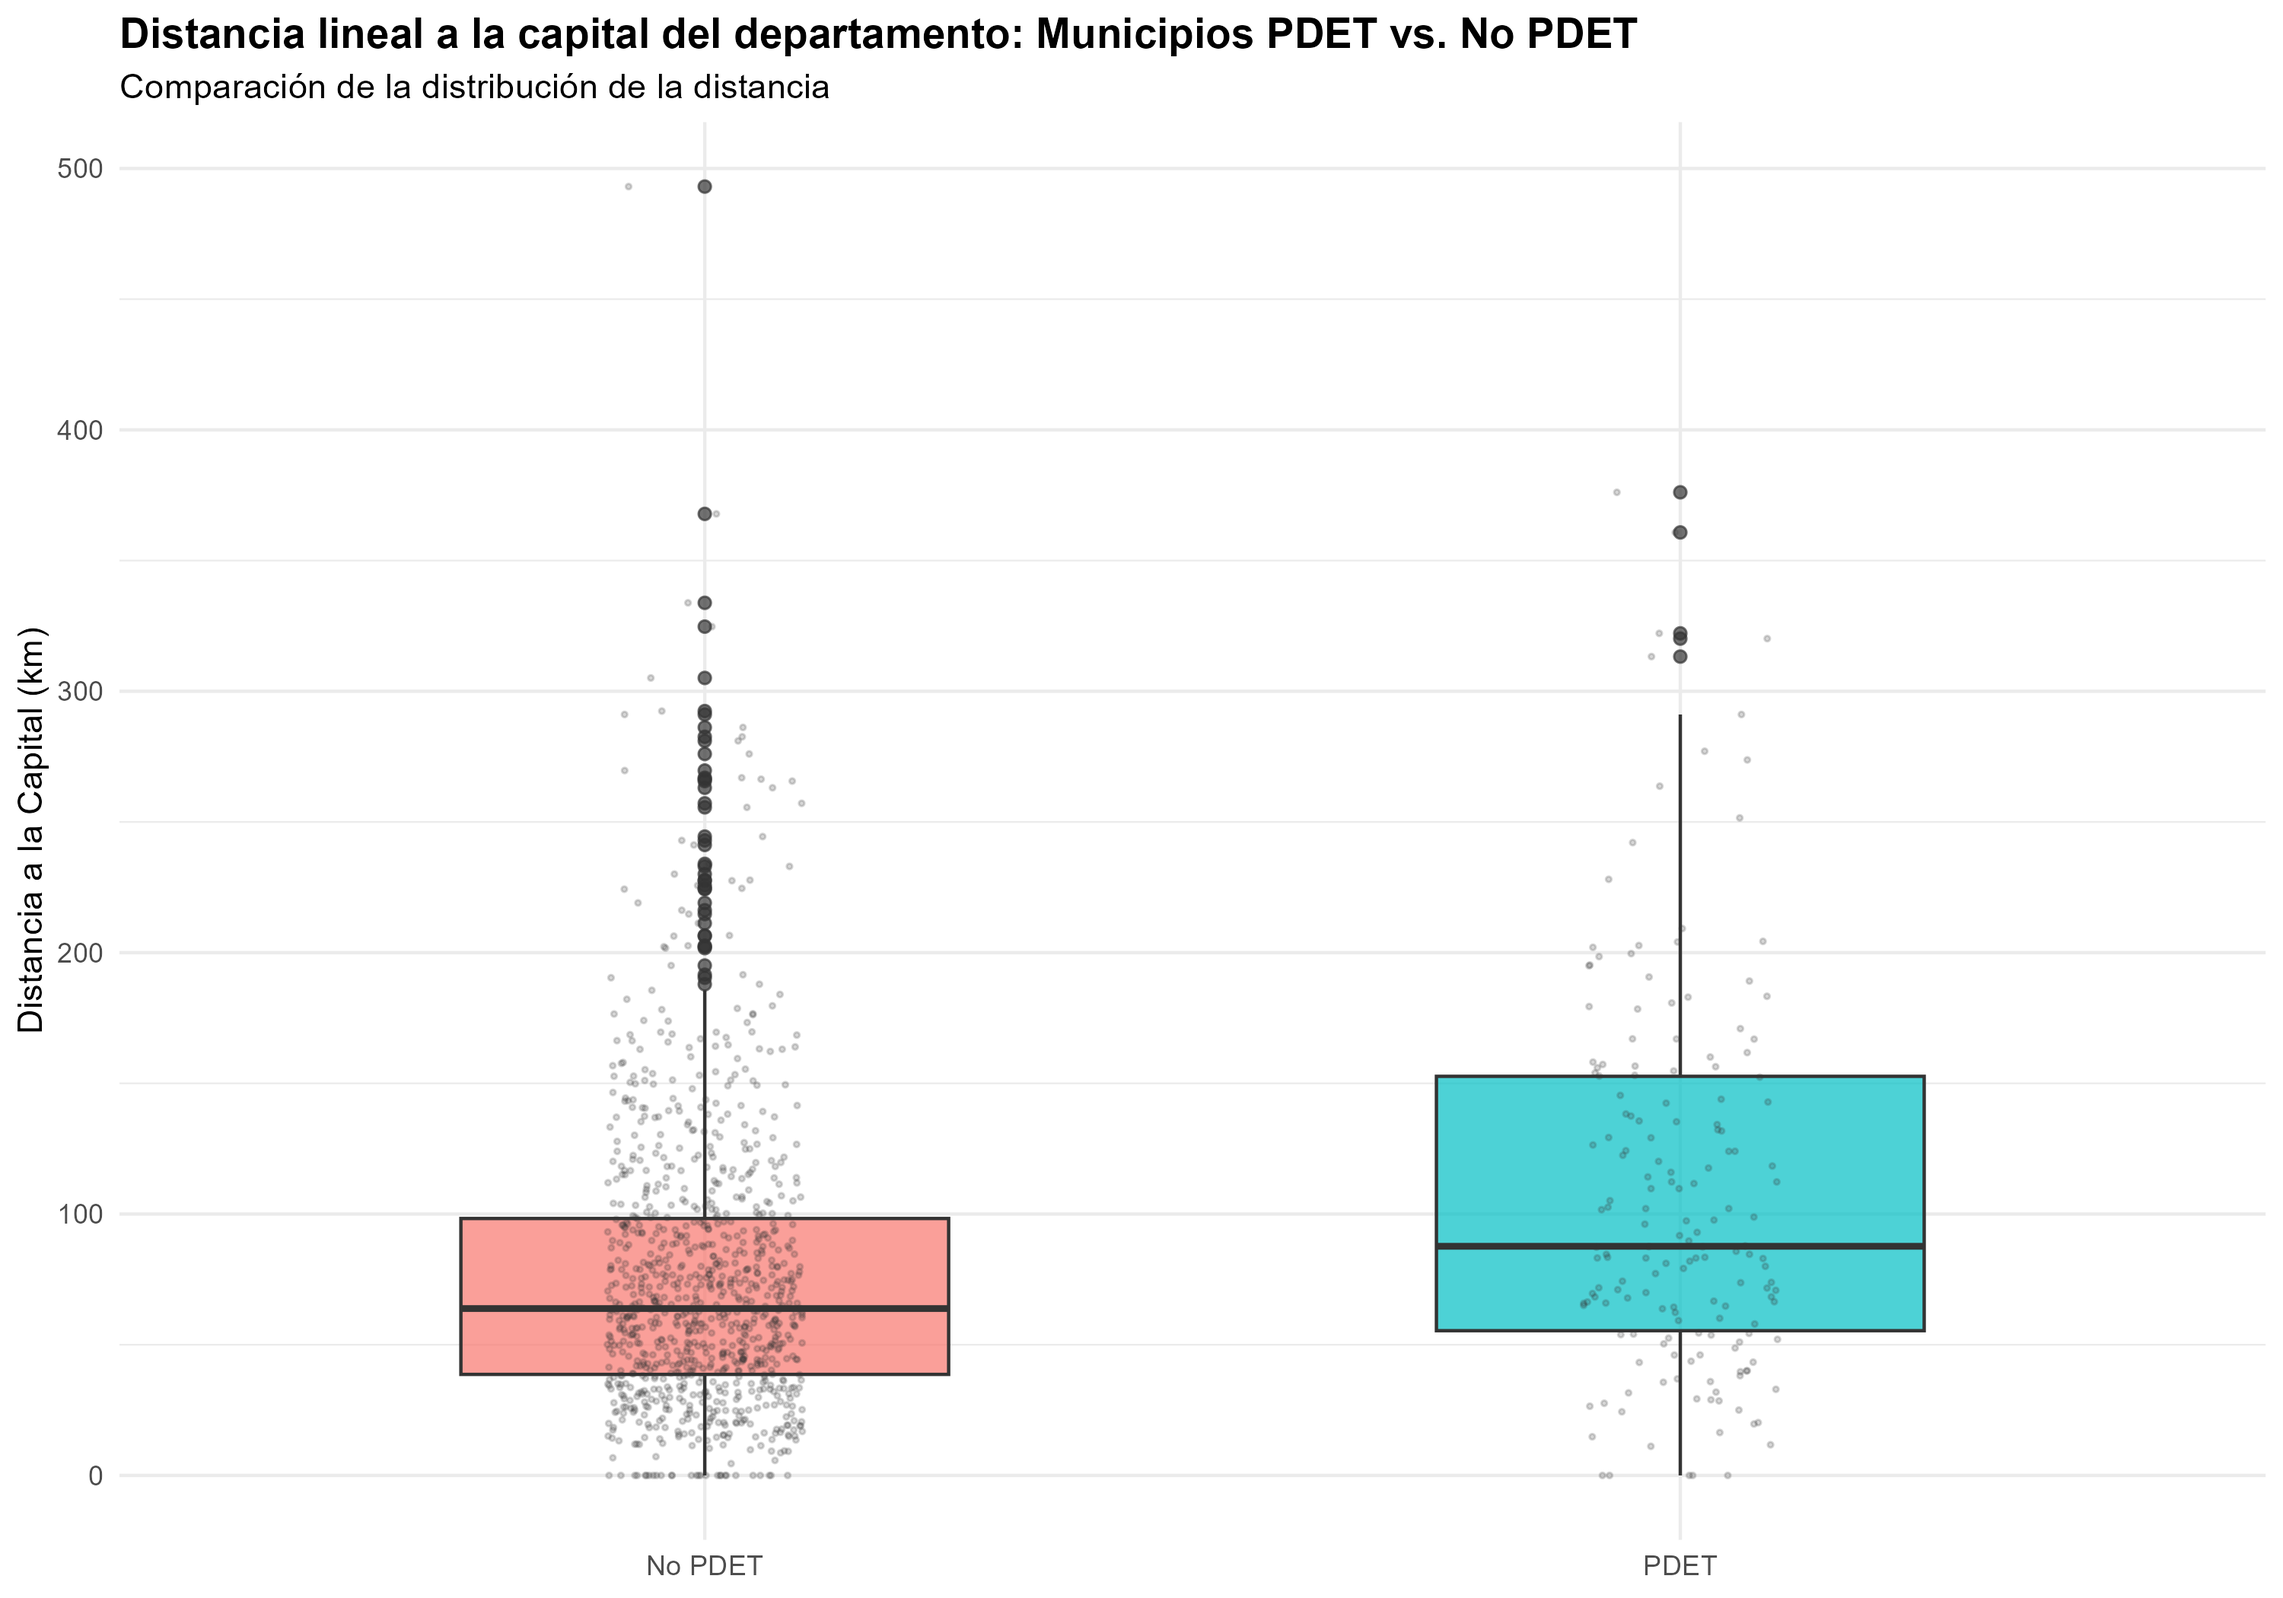
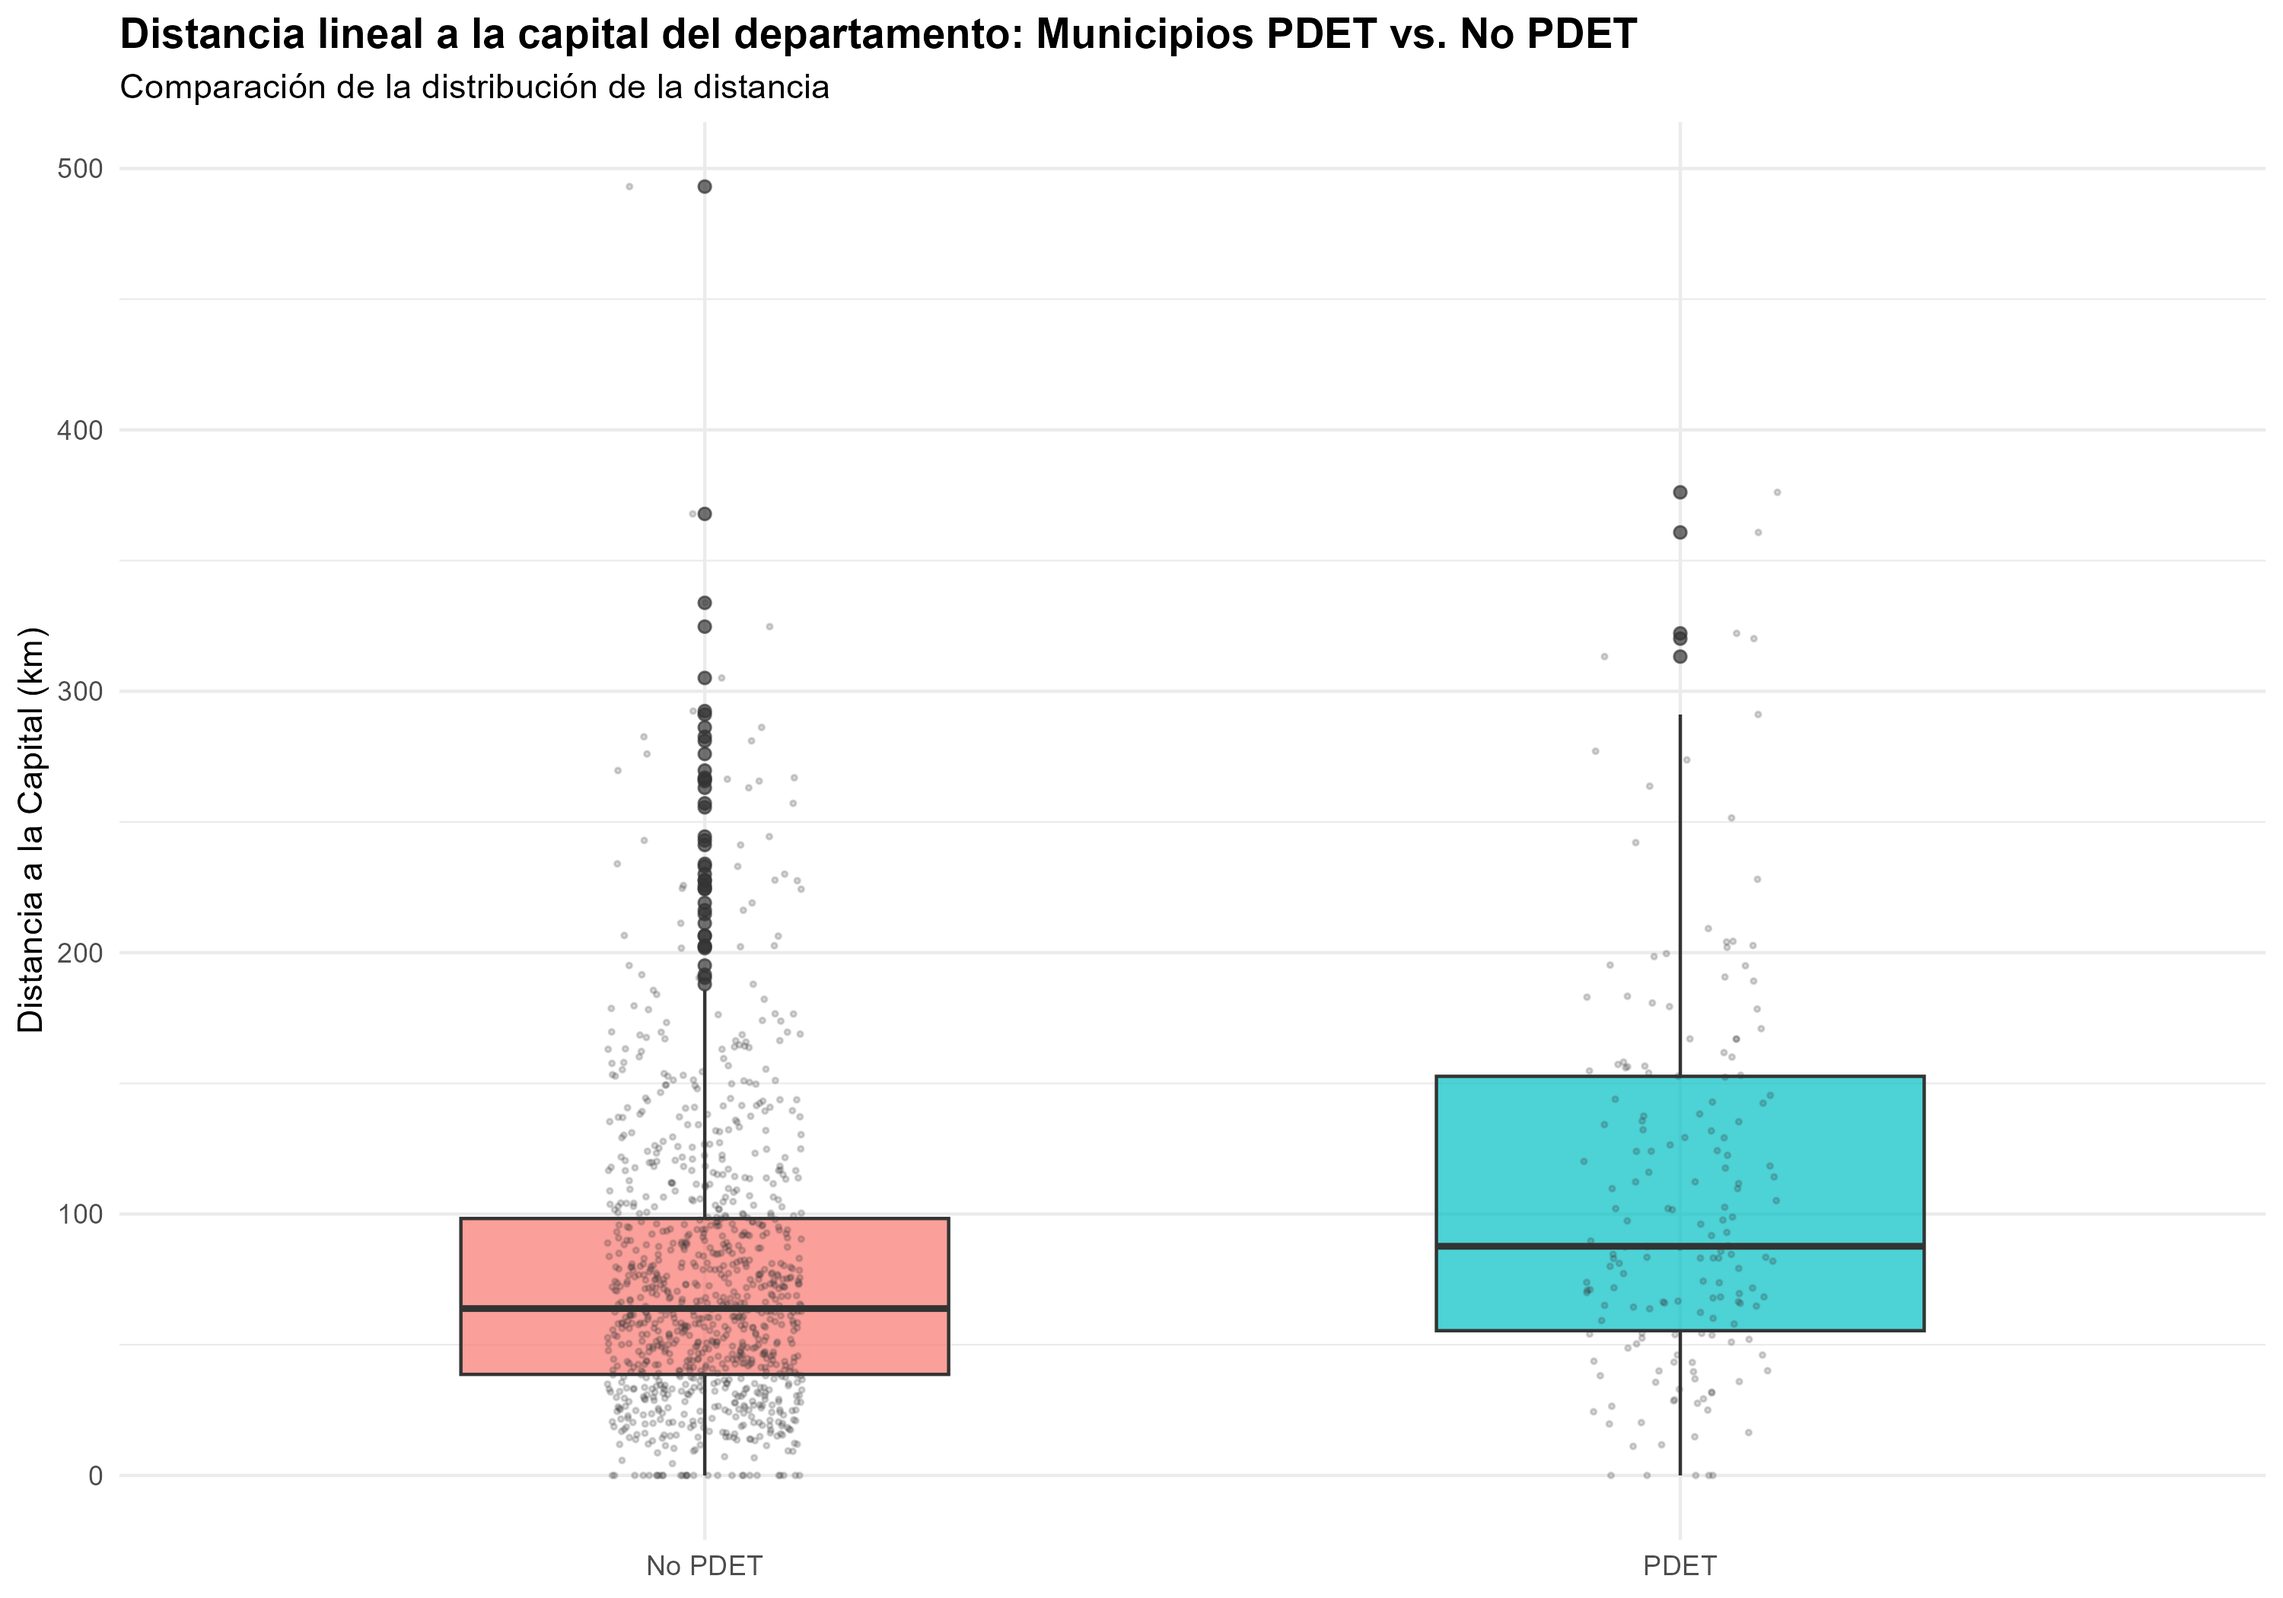
graficas y tablas vocación turistica

diff --git a/Graficos-tablas/tabla_estadisticas_complet_pdet.html b/Graficos-tablas/tabla_estadisticas_complet_pdet.html
@@ -296,48 +296,84 @@ border: 0;
 <tbody>
   <tr>
    <td style="text-align:left;"> Porcentaje rural </td>
-   <td style="text-align:right;"> 0 </td>
+   <td style="text-align:right;"> 0.00 </td>
+   <td style="text-align:right;"> 0.31 </td>
+   <td style="text-align:right;"> 16846.17 </td>
+   <td style="text-align:right;"> 5338.22 </td>
+   <td style="text-align:right;"> 97.08 </td>
+   <td style="text-align:right;"> 142.76 </td>
+  </tr>
+  <tr>
+   <td style="text-align:left;"> Porcentaje en capital </td>
+   <td style="text-align:right;"> 0.07 </td>
+   <td style="text-align:right;"> 0.53 </td>
+   <td style="text-align:right;"> 32033.95 </td>
+   <td style="text-align:right;"> 1621.32 </td>
+   <td style="text-align:right;"> 164.42 </td>
+   <td style="text-align:right;"> 61.68 </td>
+  </tr>
+  <tr>
+   <td style="text-align:left;"> Desempeño fiscal (%) </td>
+   <td style="text-align:right;"> 0.54 </td>
+   <td style="text-align:right;"> 6.79 </td>
+   <td style="text-align:right;"> 236489.63 </td>
+   <td style="text-align:right;"> 5762.23 </td>
+   <td style="text-align:right;"> 553.58 </td>
+   <td style="text-align:right;"> 235.97 </td>
+  </tr>
+  <tr>
+   <td style="text-align:left;"> Número de homicidios </td>
+   <td style="text-align:right;"> 0.00 </td>
    <td style="text-align:right;"> 16.67 </td>
    <td style="text-align:right;"> 92.24 </td>
    <td style="text-align:right;"> 85.41 </td>
    <td style="text-align:right;"> 68.87 </td>
-   <td style="text-align:right;"> 66.80 </td>
-  </tr>
-  <tr>
-   <td style="text-align:left;"> Porcentaje en capital </td>
-   <td style="text-align:right;"> 0 </td>
-   <td style="text-align:right;"> 0.00 </td>
-   <td style="text-align:right;"> 493.08 </td>
-   <td style="text-align:right;"> 376.12 </td>
-   <td style="text-align:right;"> 76.57 </td>
-   <td style="text-align:right;"> 108.58 </td>
-  </tr>
-  <tr>
-   <td style="text-align:left;"> Desempeño fiscal (%) </td>
-   <td style="text-align:right;"> 1 </td>
-   <td style="text-align:right;"> 1.00 </td>
-   <td style="text-align:right;"> 1957.00 </td>
-   <td style="text-align:right;"> 239.00 </td>
-   <td style="text-align:right;"> 15.39 </td>
-   <td style="text-align:right;"> 17.34 </td>
-  </tr>
-  <tr>
-   <td style="text-align:left;"> Número de homicidios </td>
-   <td style="text-align:right;"> 0 </td>
-   <td style="text-align:right;"> 0.03 </td>
-   <td style="text-align:right;"> 1.00 </td>
-   <td style="text-align:right;"> 0.97 </td>
-   <td style="text-align:right;"> 0.56 </td>
-   <td style="text-align:right;"> 0.56 </td>
+   <td style="text-align:right;"> 66.90 </td>
   </tr>
   <tr>
    <td style="text-align:left;"> Establecimientos oficiales </td>
-   <td style="text-align:right;"> 1 </td>
+   <td style="text-align:right;"> 0.00 </td>
+   <td style="text-align:right;"> 0.00 </td>
+   <td style="text-align:right;"> 493.08 </td>
+   <td style="text-align:right;"> 376.12 </td>
+   <td style="text-align:right;"> 74.01 </td>
+   <td style="text-align:right;"> 108.29 </td>
+  </tr>
+  <tr>
+   <td style="text-align:left;"> Actividades primarias </td>
+   <td style="text-align:right;"> 1.00 </td>
+   <td style="text-align:right;"> 1.00 </td>
+   <td style="text-align:right;"> 1957.00 </td>
+   <td style="text-align:right;"> 239.00 </td>
+   <td style="text-align:right;"> 15.34 </td>
+   <td style="text-align:right;"> 17.32 </td>
+  </tr>
+  <tr>
+   <td style="text-align:left;"> Actividades secundarias </td>
+   <td style="text-align:right;"> 0.00 </td>
+   <td style="text-align:right;"> 0.03 </td>
+   <td style="text-align:right;"> 1.00 </td>
+   <td style="text-align:right;"> 0.97 </td>
+   <td style="text-align:right;"> 0.55 </td>
+   <td style="text-align:right;"> 0.56 </td>
+  </tr>
+  <tr>
+   <td style="text-align:left;"> Actividades terciarias </td>
+   <td style="text-align:right;"> 2.00 </td>
    <td style="text-align:right;"> 8.00 </td>
    <td style="text-align:right;"> 772.00 </td>
    <td style="text-align:right;"> 348.00 </td>
-   <td style="text-align:right;"> 35.91 </td>
-   <td style="text-align:right;"> 72.88 </td>
+   <td style="text-align:right;"> 36.39 </td>
+   <td style="text-align:right;"> 73.15 </td>
+  </tr>
+  <tr>
+   <td style="text-align:left;"> Visitantes extranjeros no residentes </td>
+   <td style="text-align:right;"> 0.00 </td>
+   <td style="text-align:right;"> 0.00 </td>
+   <td style="text-align:right;"> 1259394.00 </td>
+   <td style="text-align:right;"> 30949.00 </td>
+   <td style="text-align:right;"> 3003.28 </td>
+   <td style="text-align:right;"> 313.85 </td>
   </tr>
 </tbody>
 </table>

diff --git a/Graficos-tablas/tabla_visitantes.html b/Graficos-tablas/tabla_visitantes.html
@@ -281,63 +281,42 @@ border: 0;
 </head>
 <body>
 <table class=" lightable-classic" style="color: black; font-family: Cambria; width: auto !important; margin-left: auto; margin-right: auto;">
-<caption>Estadísticas descriptivas por municipio PDET y No PDET</caption>
+<caption>Estadísticas descriptivas de visitantes extranjeros no residentes por grupo PDET (nivel municipal)</caption>
  <thead>
   <tr>
-   <th style="text-align:left;"> Variable </th>
-   <th style="text-align:right;"> Min (No PDET) </th>
-   <th style="text-align:right;"> Max (No PDET) </th>
-   <th style="text-align:right;"> Promedio (No PDET) </th>
-   <th style="text-align:right;"> Min (PDET) </th>
-   <th style="text-align:right;"> Max (PDET) </th>
-   <th style="text-align:right;"> Promedio (PDET) </th>
+   <th style="text-align:left;"> Grupo </th>
+   <th style="text-align:right;"> N </th>
+   <th style="text-align:right;"> Mínimo </th>
+   <th style="text-align:right;"> 1er Cuartil </th>
+   <th style="text-align:right;"> Promedio </th>
+   <th style="text-align:right;"> Mediana </th>
+   <th style="text-align:right;"> 3er Cuartil </th>
+   <th style="text-align:right;"> Máximo </th>
+   <th style="text-align:right;"> Desviación estándar </th>
   </tr>
  </thead>
 <tbody>
   <tr>
-   <td style="text-align:left;"> Porcentaje rural </td>
-   <td style="text-align:right;"> 0 </td>
-   <td style="text-align:right;"> 16.67 </td>
-   <td style="text-align:right;"> 92.24 </td>
-   <td style="text-align:right;"> 85.41 </td>
-   <td style="text-align:right;"> 68.87 </td>
-   <td style="text-align:right;"> 66.80 </td>
-  </tr>
-  <tr>
-   <td style="text-align:left;"> Porcentaje en capital </td>
-   <td style="text-align:right;"> 0 </td>
-   <td style="text-align:right;"> 0.00 </td>
-   <td style="text-align:right;"> 493.08 </td>
-   <td style="text-align:right;"> 376.12 </td>
-   <td style="text-align:right;"> 76.57 </td>
-   <td style="text-align:right;"> 108.58 </td>
-  </tr>
-  <tr>
-   <td style="text-align:left;"> Desempeño fiscal (%) </td>
+   <td style="text-align:left;"> No PDET </td>
+   <td style="text-align:right;"> 701 </td>
    <td style="text-align:right;"> 1 </td>
-   <td style="text-align:right;"> 1.00 </td>
-   <td style="text-align:right;"> 1957.00 </td>
-   <td style="text-align:right;"> 239.00 </td>
-   <td style="text-align:right;"> 15.39 </td>
-   <td style="text-align:right;"> 17.34 </td>
+   <td style="text-align:right;"> 20.00 </td>
+   <td style="text-align:right;"> 21571.33 </td>
+   <td style="text-align:right;"> 79 </td>
+   <td style="text-align:right;"> 399.00 </td>
+   <td style="text-align:right;"> 7079165 </td>
+   <td style="text-align:right;"> 297459.65 </td>
   </tr>
   <tr>
-   <td style="text-align:left;"> Número de homicidios </td>
-   <td style="text-align:right;"> 0 </td>
-   <td style="text-align:right;"> 0.03 </td>
-   <td style="text-align:right;"> 1.00 </td>
-   <td style="text-align:right;"> 0.97 </td>
-   <td style="text-align:right;"> 0.56 </td>
-   <td style="text-align:right;"> 0.56 </td>
-  </tr>
-  <tr>
-   <td style="text-align:left;"> Establecimientos oficiales </td>
+   <td style="text-align:left;"> PDET </td>
+   <td style="text-align:right;"> 122 </td>
    <td style="text-align:right;"> 1 </td>
-   <td style="text-align:right;"> 8.00 </td>
-   <td style="text-align:right;"> 772.00 </td>
-   <td style="text-align:right;"> 348.00 </td>
-   <td style="text-align:right;"> 35.91 </td>
-   <td style="text-align:right;"> 72.88 </td>
+   <td style="text-align:right;"> 28.25 </td>
+   <td style="text-align:right;"> 2220.11 </td>
+   <td style="text-align:right;"> 81 </td>
+   <td style="text-align:right;"> 297.75 </td>
+   <td style="text-align:right;"> 193714 </td>
+   <td style="text-align:right;"> 17610.79 </td>
   </tr>
 </tbody>
 </table>

diff --git a/Graficos-tablas/tabla_homicidios.html b/Graficos-tablas/tabla_homicidios.html
@@ -280,7 +280,7 @@ border: 0;
 
 </head>
 <body>
-<table class=" lightable-classic" style="font-family: Cambria; width: auto !important; margin-left: auto; margin-right: auto;">
+<table class=" lightable-classic" style="color: black; font-family: Cambria; width: auto !important; margin-left: auto; margin-right: auto;">
 <caption>Estadísticas descriptivas de homicidios por grupo PDET (nivel municipal)</caption>
  <thead>
   <tr>

diff --git a/Graficos-tablas/tabla_indrural.html b/Graficos-tablas/tabla_indrural.html
@@ -280,7 +280,7 @@ border: 0;
 
 </head>
 <body>
-<table class=" lightable-classic" style="font-family: Cambria; width: auto !important; margin-left: auto; margin-right: auto;">
+<table class=" lightable-classic" style="color: black; font-family: Cambria; width: auto !important; margin-left: auto; margin-right: auto;">
 <caption>Estadísticas descriptivas del índice de ruralidad por grupo PDET</caption>
  <thead>
   <tr>
